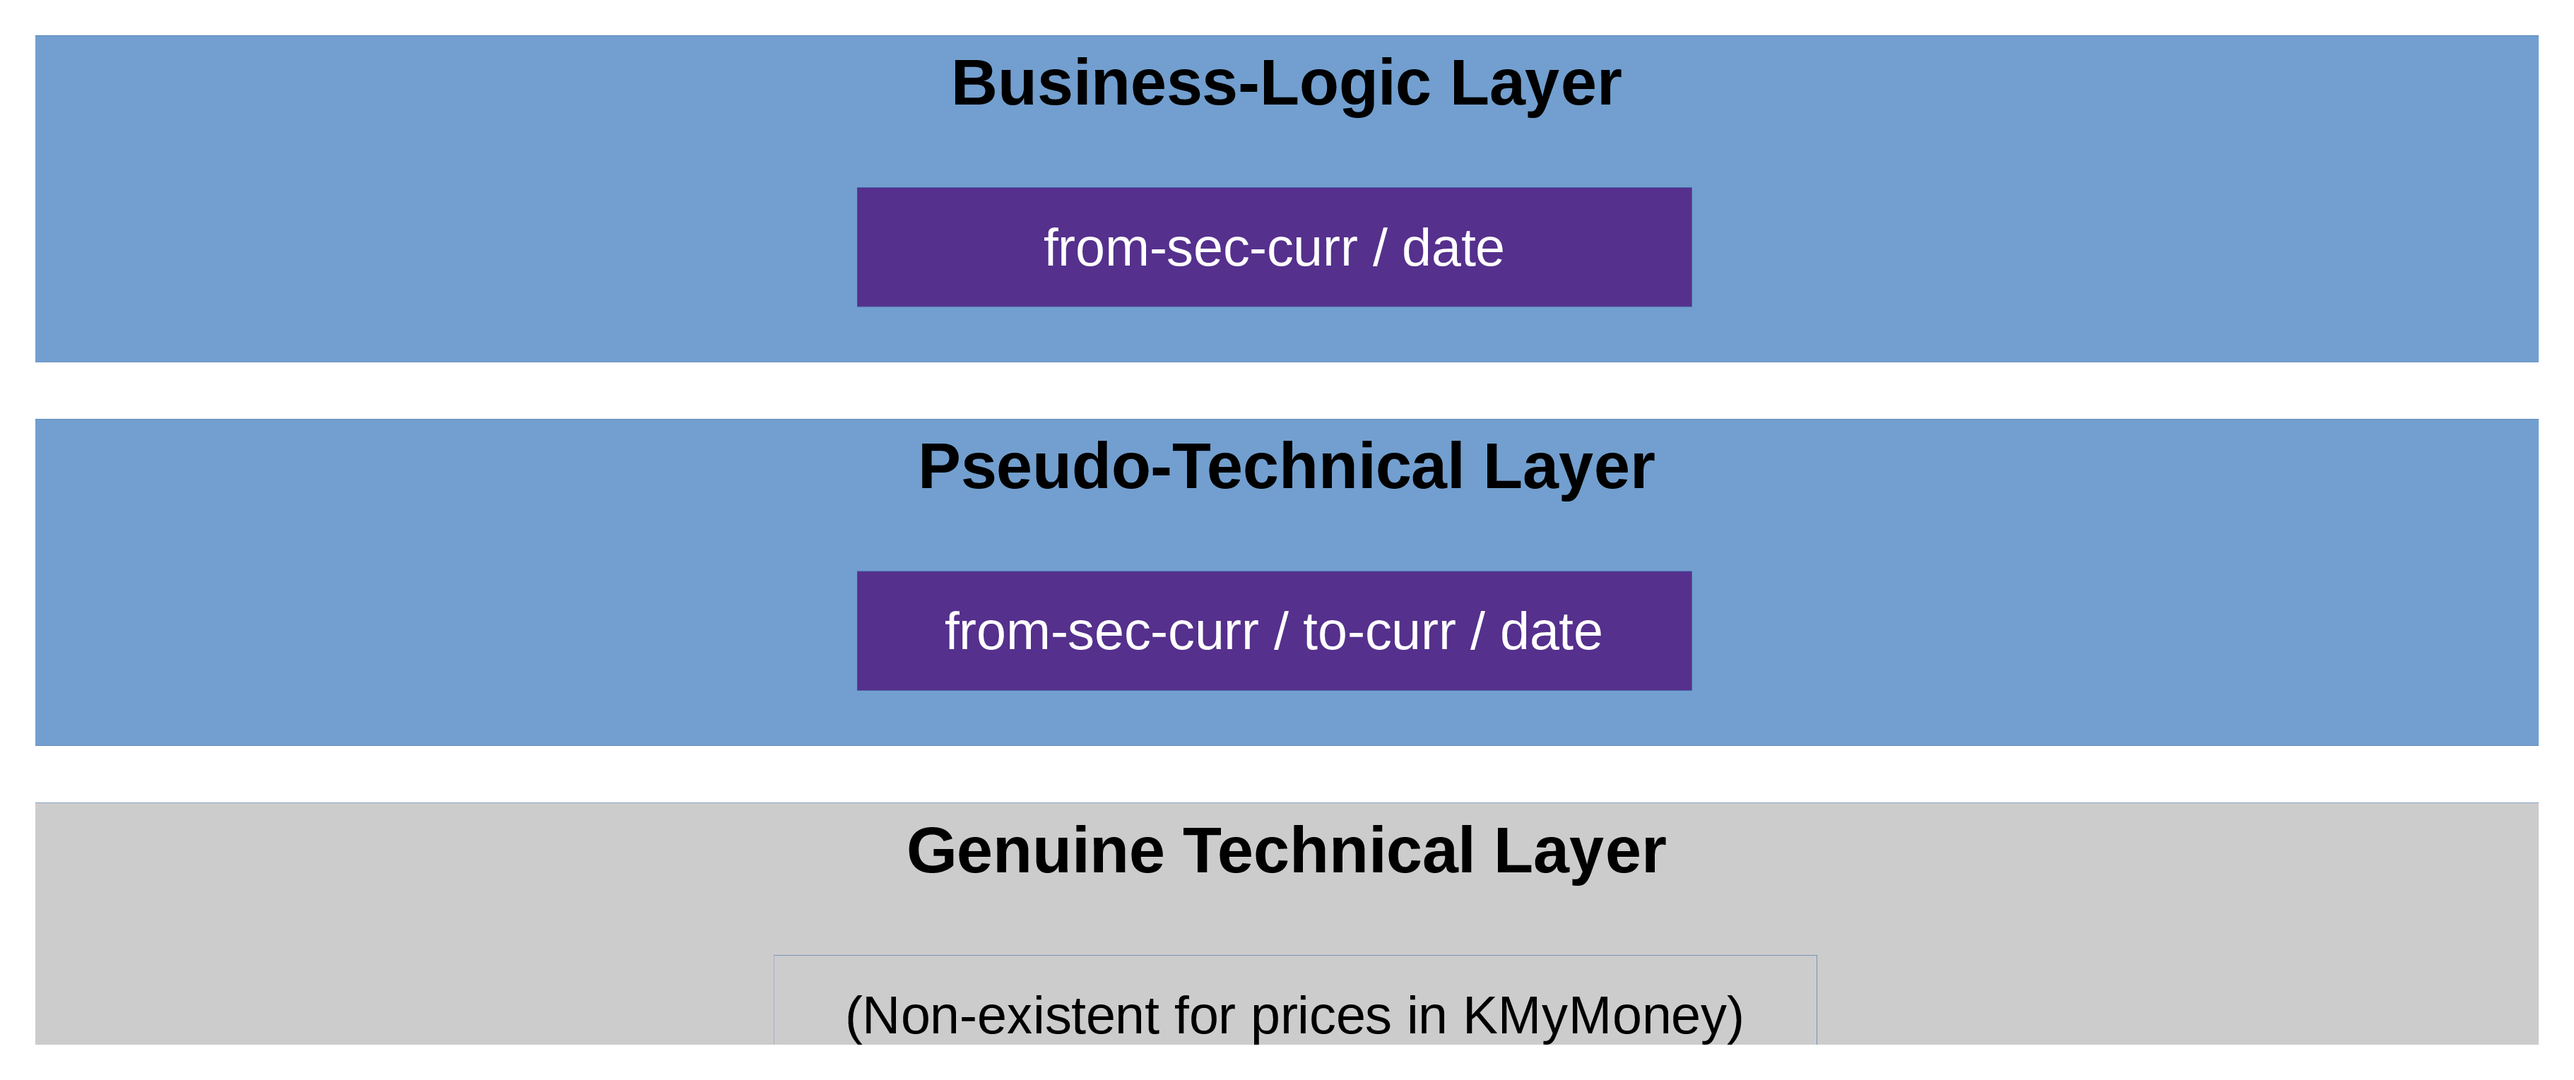
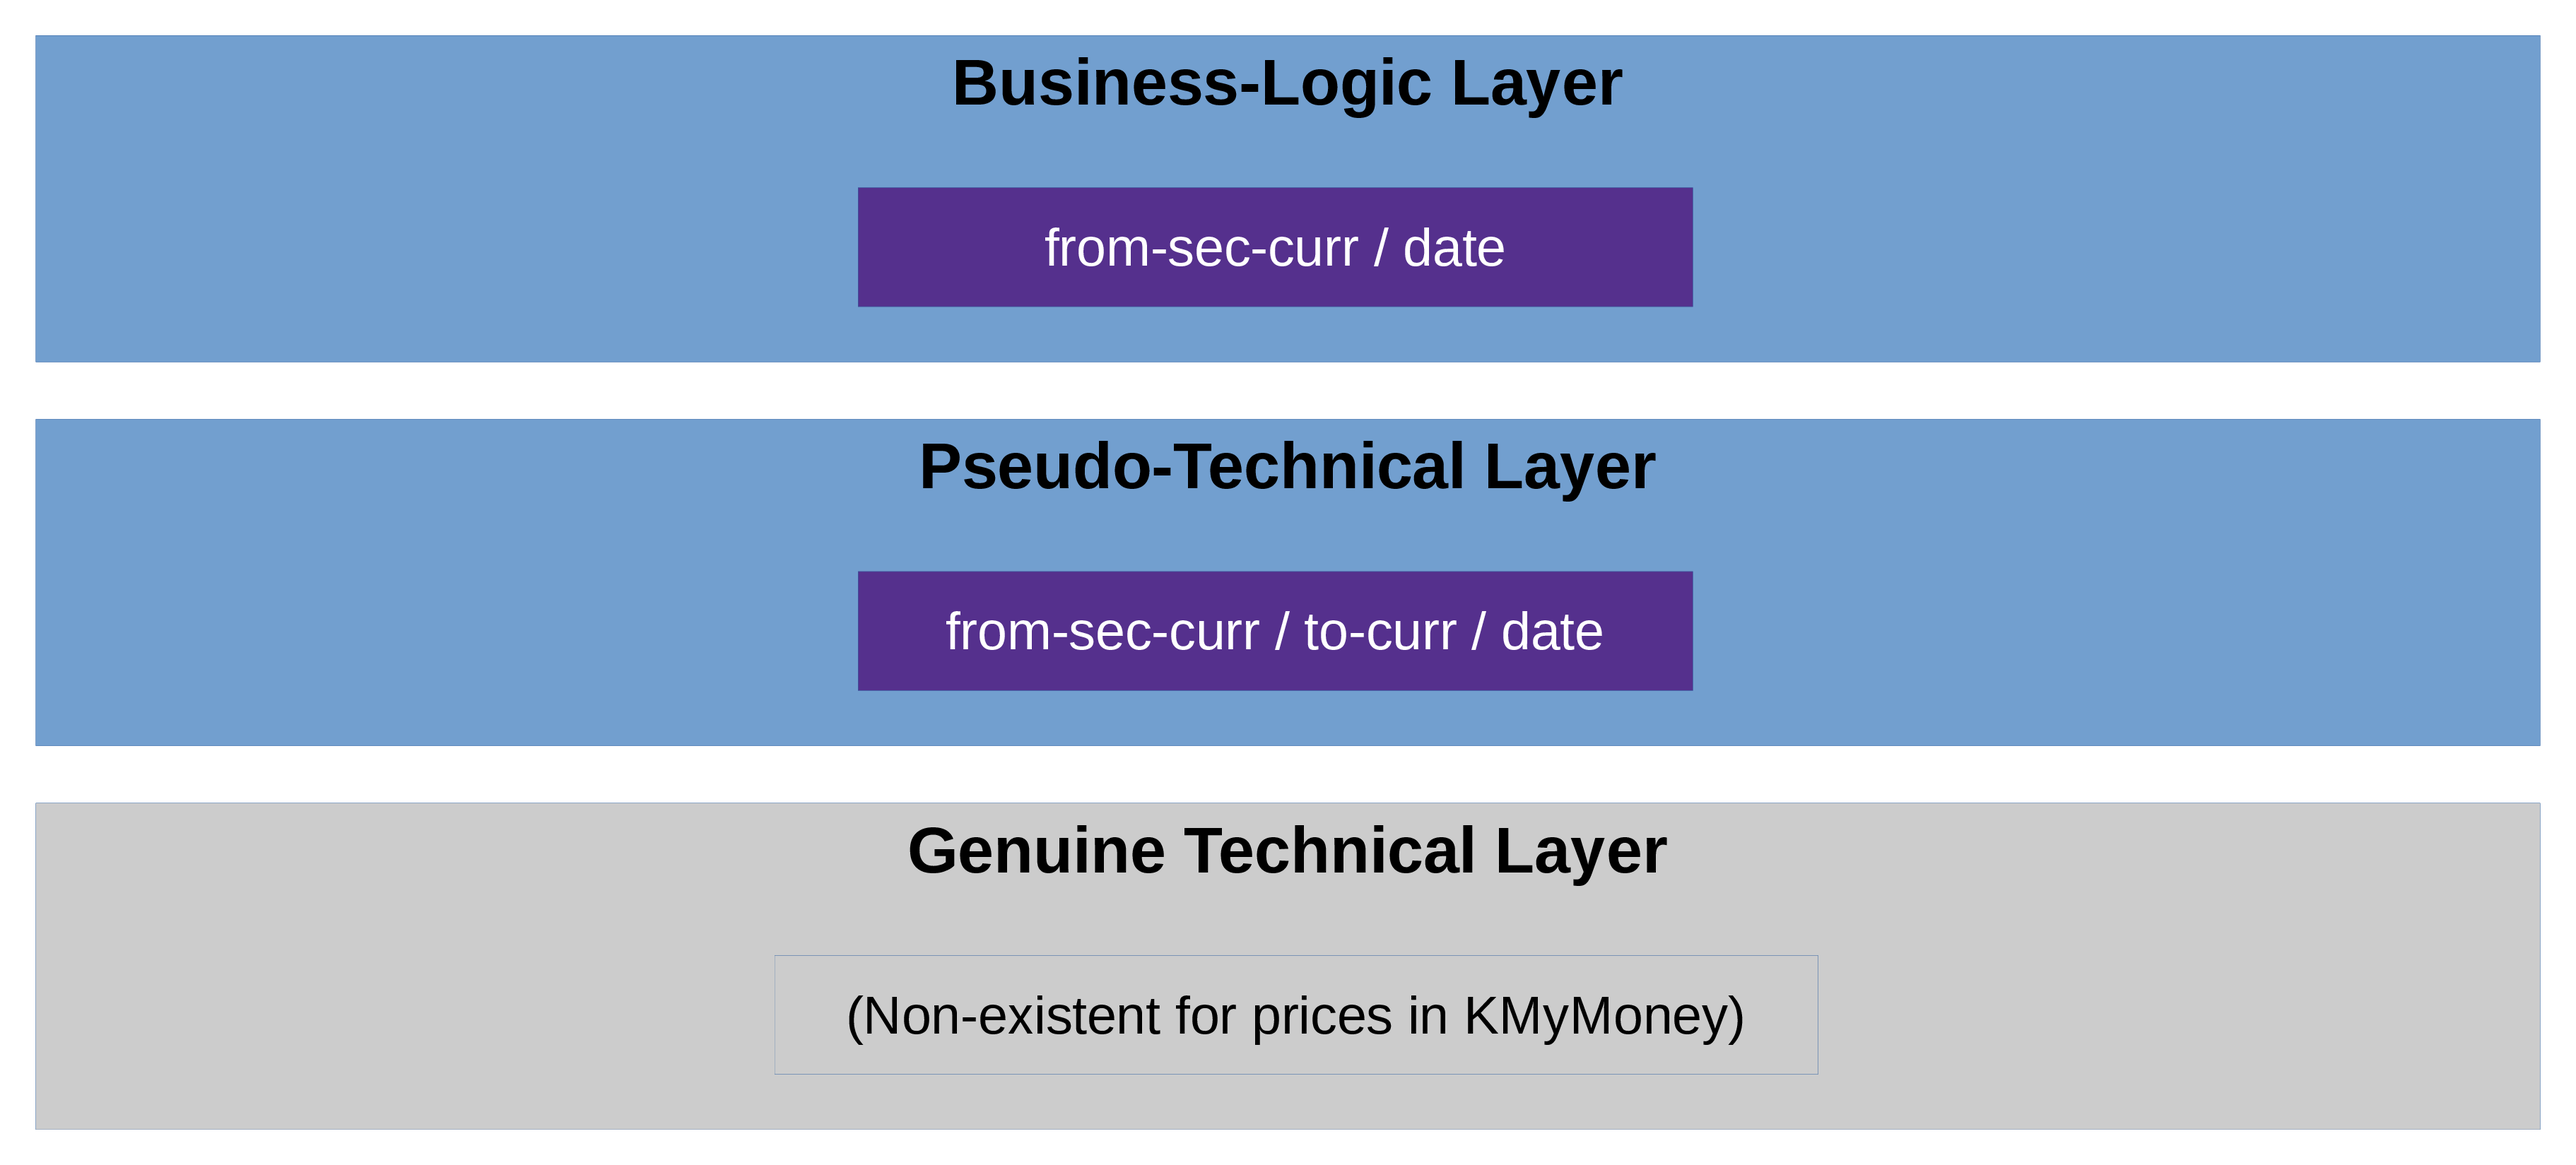
Update doc

diff --git a/doc/developer/select-prices.md b/doc/developer/select-prices.md
@@ -116,7 +116,7 @@ security/currency identifiers: `KMM(Qualif)SecID`, `KMM(Qualif)CurrID`, `KMMQual
 but just the simpler ones: `KMMSecID`, `KMMCurrID`.
 
 Have a look at module "API Examples", program 
-`GetPrcInfo` ::TODO
+`GetPrcInfo`
 for a simple example on how to use them.
 
 You will also find a more elaborate variant of it (with better code encapsulation)
@@ -141,7 +141,7 @@ mythical external source), and then you use:
 
 Look at the example program in module "API Examples",
 it is called
-`GetPrcInfo`. ::TODO
+`GetPrcInfo`.
 
 (You will also find a more elaborate version of it
 in module "Tools").
